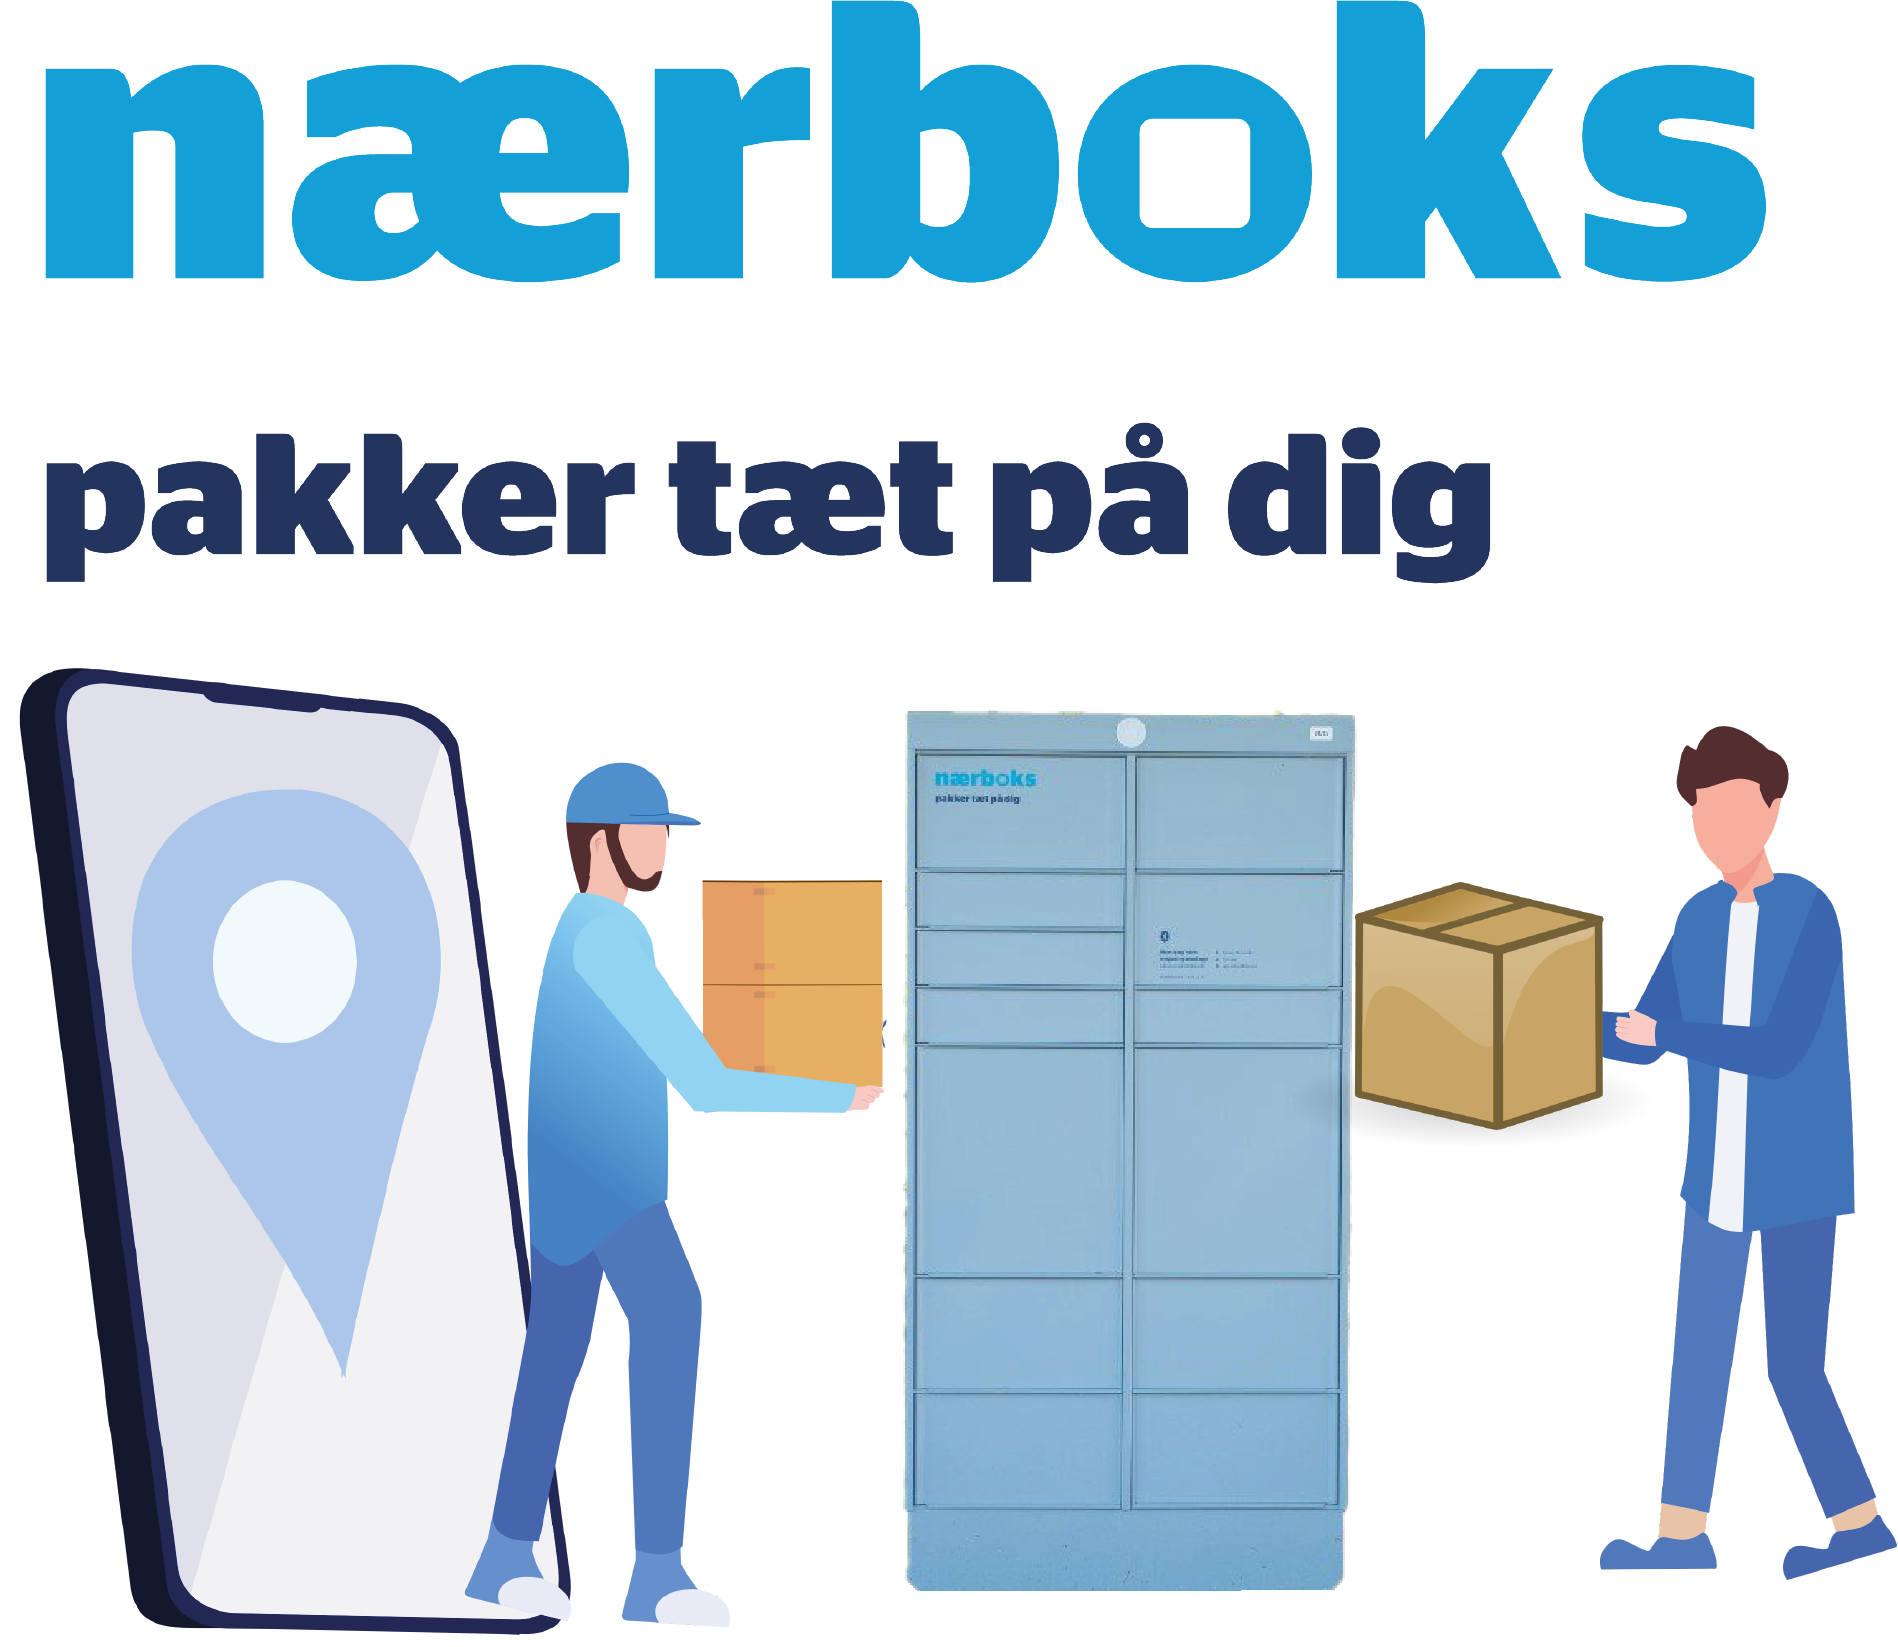
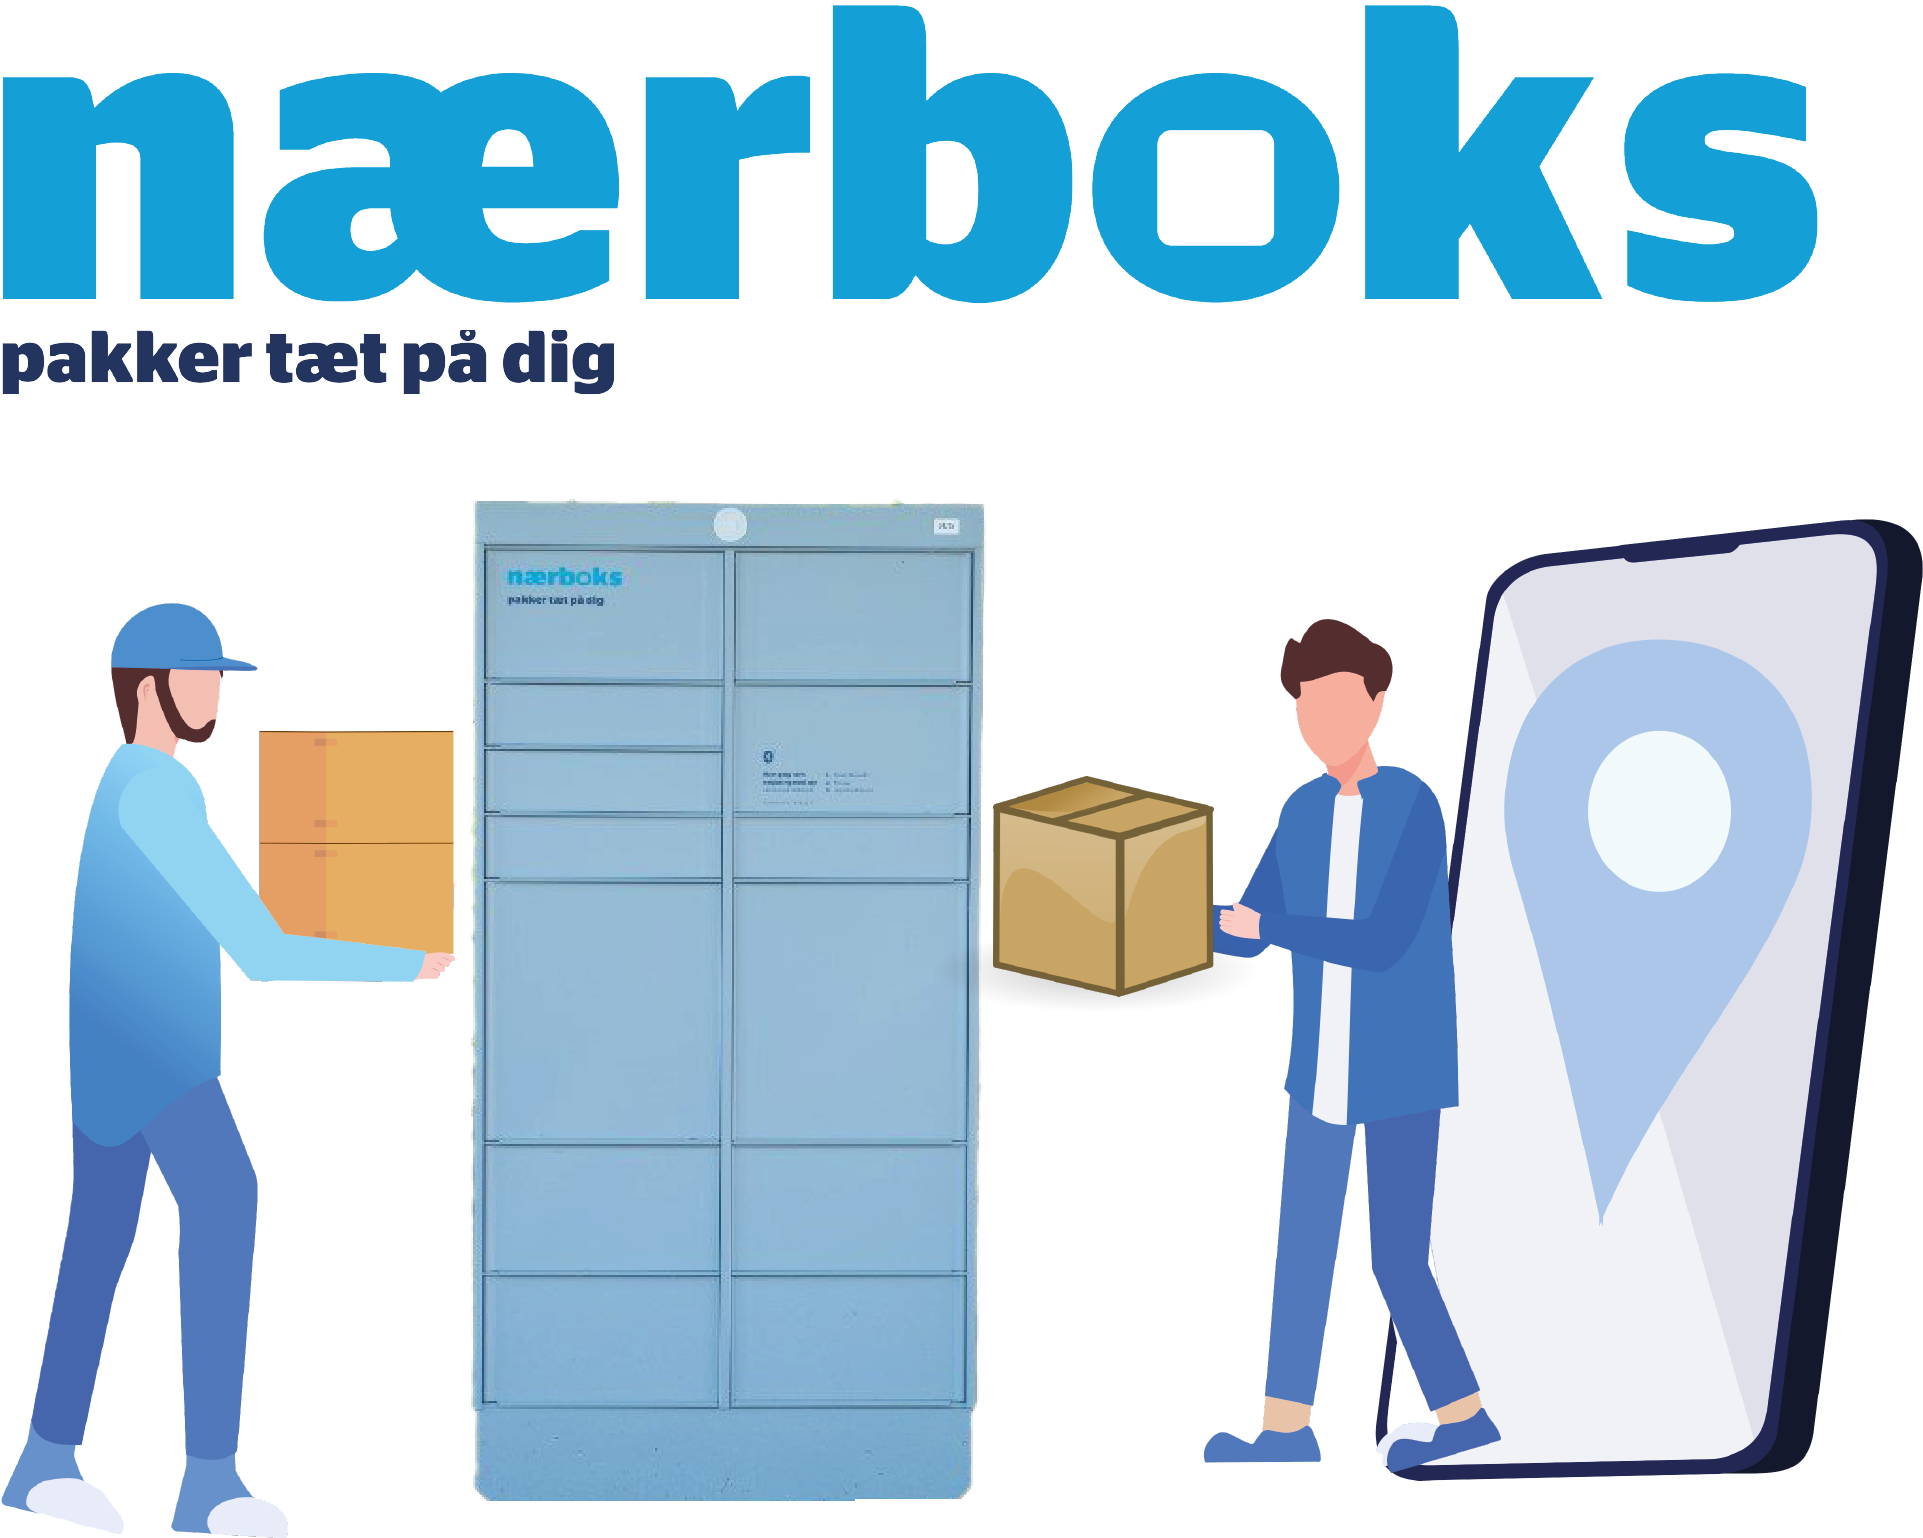
img

diff --git a/Box-app-AJJM/styleJulia.css b/Box-app-AJJM/styleJulia.css
@@ -371,8 +371,9 @@ p.frontPageUnderskrift{
 }*/
 
 .frontpageBillede{
-  max-width: 99%;
+  max-width: 95%;
   position: absolute;
   top: 30%;
+margin-left: 1.25rem;
 
  }
